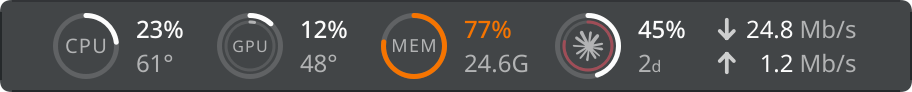
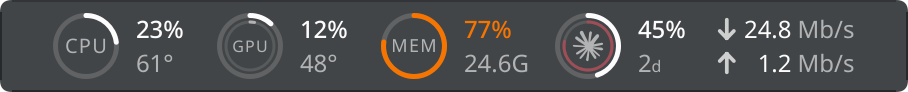
docs: re-render the README's pictures from the fixed code
popups.png shows the tiles' padding balanced on their ink; usage.png
the red run-out dots ending on the 100 % rule, the balanced week tile
and, now rendered at a fixed time, a countdown and run-out that no
longer move with the hour of the render; panel.png the readings' rooms
without the spurious pixel. Rendered with scripts/pictures.sh. The usage
picture's description now mentions the dots.

diff --git a/README.md b/README.md
@@ -92,7 +92,7 @@ scripts/install.sh
 
 ## Claude and Codex
 
-![The Claude popup: the weekly limit, the Fable limit in red with a sentence saying when it runs out at this pace, and a graph of this week's usage](docs/usage.png)
+![The Claude popup: the weekly limit, the Fable limit in red with a sentence saying when it runs out at this pace, and a graph of this week's usage with red dots from the Fable line to where it reaches 100%](docs/usage.png)
 
 Turn them on under *Configure Ringside… → Panel Items*. Each shows while its
 command-line tool is signed in on this machine; if one doesn't appear, its row
